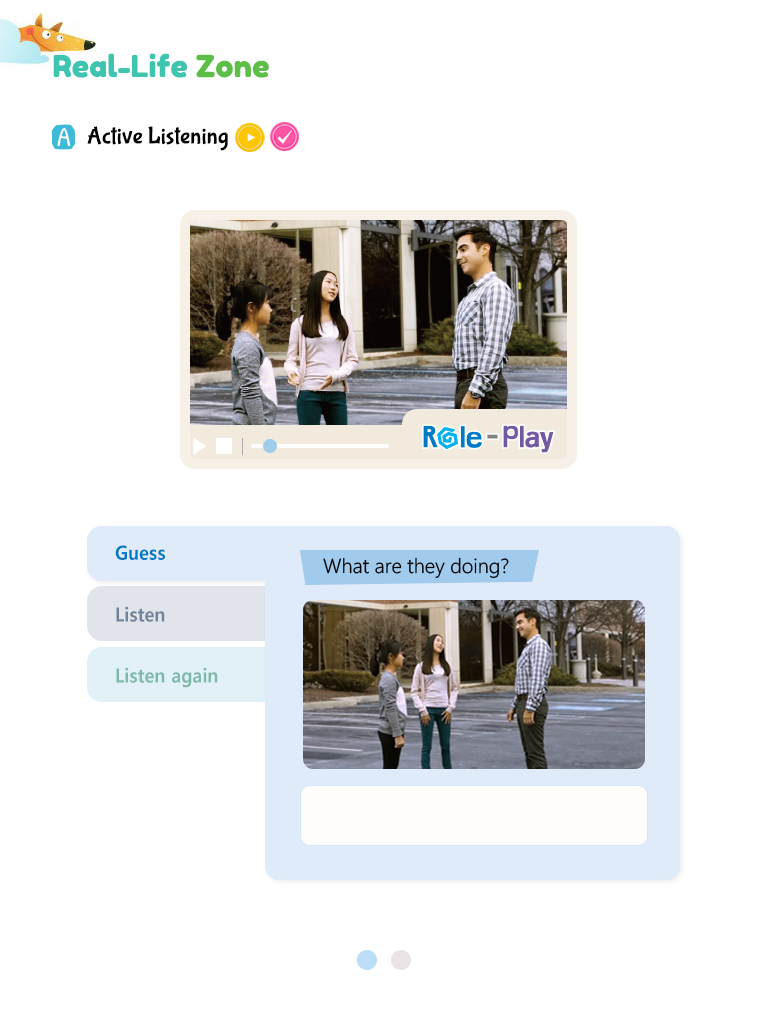
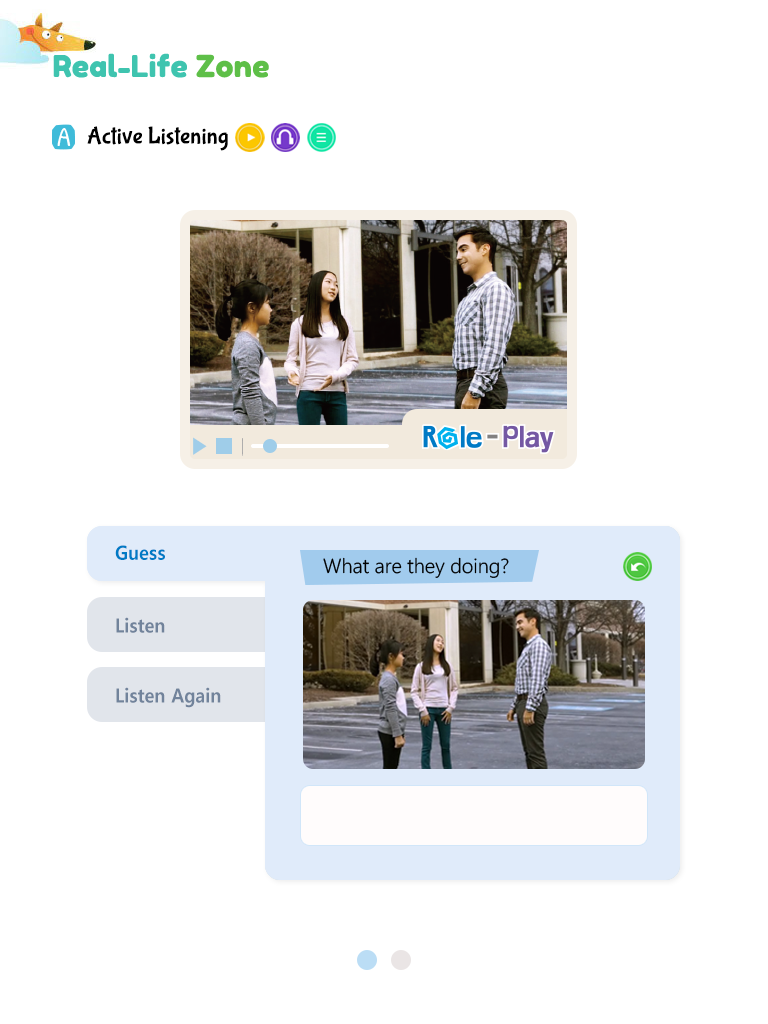
no message

diff --git a/OPS/css/12.css b/OPS/css/12.css
@@ -3,22 +3,63 @@
 
 
 /* layout */
-.wrapper{/*background:url(../images/12/12_5_001.png) no-repeat 0 0;*/ background-size: cover;border:1px solid yellow;}
+.wrapper{/*background:url(../images/12/12_5_001.png) no-repeat 0 0;*/ background-size: cover;}
+.slider_area{height: 770px;margin: 0 auto;position: relative; width: 600px;}
+.slider_area > .slider_content{width:600px;position: relative;top:0;left:0;}
+.slider_image_wrap{width:600px;position: relative;top:0;left:0;z-index:100;}
+.slider_image > li{display:none;width:100%;position:absolute;left:0;top:0;}
+.slider_image > li:nth-of-type(2){display:none;width:100%;position:absolute;left:600px;top:0;}
+.slider_image > li.on{display:block;left:0;}
 
-
+.slider_thumbnail_area { height: 850px; left: 50%; margin-left:-100px; overflow: hidden; position: relative; top:0; width: 200px;}
+.slider_thumbnail_area ul {text-align: center;width:74px; position: relative; top:800px;left:50%;margin-left:-37px;}
+.slider_thumbnail_area ul li {width: 20px; height: 20px; border: 1px solid #ddd; border-radius: 15px; background: url(../images/common/slide_bt_off.png) no-repeat 0 0; text-indent: -9999px; margin: 0 5px;cursor: pointer;display: inline-block;}
+.slider_area .slider_thumbnail_area ul li.on { background: url(../images/common/slide_bt_on.png) no-repeat 0 0; border: 1px solid #fff;}
+.slider_thumbnail_area ul li:last-child { margin-right: 10px;}
 
 .page_tit{width: 235px; height: 70px;margin-top:-45px;margin-left:-53px;}
 
 /*  container_wrap  */
 .header_wrap{position: relative; width: 660px;}
 .sub_tit1{margin-top:41px;}
-.sub_tit1 img{width: 25px; height: 26px;}
+.sub_tit1 img{width: 25px; height: 26px;margin-top: -5px;}
 .A_tit{font-family: 'Bubblegum Sans'; font-size: 22px;}
 .one{width:115px; height:25px;}
 
 /* container_wrap */
-.container_wrap{border:1px solid red;margin-top:50px;}
+.container_wrap{margin-top:50px;height:672px;}
 .container_inner{}
-.content_1{border:1px solid #000;text-align:center;position:relative;left:50%;width:400px;margin-left:-200px;}
+  /* content_1 */
+.content_1{text-align:center;position:relative;left:50%;width:400px;margin-left:-200px;}
 .content_1 span{position:absolute;right:25px;bottom:15px;cursor: pointer;}
-.content_2{border:1px solid #a6d8e5;}
+
+  /* content_2 */
+.content_2{height:357px;width:595px;margin:0 auto;margin-top:50px;}
+.content_2 dl{position:relative;width:595px;height:325px;}
+.content_2 dl dt{background:#e1e5eb;width:200px; height:55px;line-height:55px;color:#71839b;font-family: 'Noto Sans KR';font-weight:800;font-size:17px;padding-left:30px;box-sizing: border-box;border-radius:15px;margin-top:20px;}
+.content_2 dl dt:nth-of-type(1){margin-top:0;}
+
+.content_2 dl dd{position:absolute;left:180px;top:0;width:415px;height:325px;background:#e0ebfa;padding:20px;box-sizing: border-box;border-radius:15px;}
+.content_2 dl dd:nth-of-type(1){text-align: center;display:none;}
+.content_2 dl dd:nth-of-type(2){}
+.content_2 dl dd:nth-of-type(3){}
+
+.content_2 dl dd h1{float:left;margin-left:17px;text-align: center;display:inline-block;background:url(../images/12/inner_title_What_bg.png) no-repeat 0 0;width:239px;height:30px;line-height:30px;font-family: 'Noto Sans KR';font-weight:800;font-size:17px;}
+.content_2 dl dd:nth-of-type(2) h1,
+.content_2 dl dd:nth-of-type(3) h1{background:none;font-family: 'Noto Sans KR';font-weight:100;font-size:13px;text-align:left;margin-top:50px;width: 230px;height: 20px;line-height: 20px;}
+.content_2 dl dd .button_gr{position:absolute;right:35px;}
+
+.content_2 dl dd .video_img{margin-top:40px;}
+.content_2 dl dd textarea{width:338px; height:50px;resize: none;margin-top:18px;border-radius:10px;padding:5px;box-sizing: border-box;line-height:15px;}
+
+.content_2 dl dd div ul{clear: both;display:inline-block;margin-top:30px;}
+.content_2 dl dd div ul li{font-family: 'Faustina';font-size:16px;font-weight:100;line-height:13px;margin:10px 0 0 18px;}
+.content_2 dl dd div ul li span{display:inline-block;width:15px;height:15px;border:1px solid #666;border-radius: 8px;text-align:center;line-height:13px;margin-right:5px;margin-top:2px;}
+
+.content_2 dl dd:nth-of-type(3) div ul{width:305px;height:170px;background:url(../images/12/Talk_bubble.png) no-repeat 0 0;padding:40px 0 0 15px;box-sizing:border-box;}
+.content_2 dl dd:nth-of-type(3) div ul li{font-family: 'Nanum Gothic';font-size:14px;font-weight: bold;margin:15px 0 0 18px;vertical-align: top;}
+.content_2 dl dd:nth-of-type(3) div ul li input[type="checkbox"]{}
+.content_2 dl dd:nth-of-type(3) div ul li input[type="checkbox"]+ label:before{display:inline-block;width:10px;height:10px;margin-left:8px;}
+.content_2 dl dd:nth-of-type(3) div .girl_img{float:right;margin-top:-65px;}
+
+.content_2 dl dd:nth-of-type(3) div ul li input[type="checkbox"]:checked + label:before{text-shadow: 1px 1px 1px rgba(0, 0, 0, font-size: 13px;font-weight: 800;text-align: center; line-height: 10px;}

diff --git a/OPS/css/09.css b/OPS/css/09.css
@@ -35,12 +35,6 @@ article dd ul li{font-size: 12px;}
 article dd ul li:hover{color: #9a01cd;}
 
 li article h1{font-family: 'Bubblegum Sans';font-size:16px;letter-spacing: 1px;position:absolute;top:-10px;left:10px;color:#fff;display:inline-block;padding:0 8px;height:30px;line-height:30px;background: url(../images/09/p09_strapline.png) no-repeat 0 0;background-size: 100% 100%;}
-/*.rol_01 article:first-of-type h1{transform:rotate(-3deg);}
-.rol_01 article:nth-of-type(2) h1{transform:rotate(5deg);}
-.rol_01 article:last-of-type h1{transform:rotate(1deg);}
-.rol_02 article:first-of-type h1{transform:rotate(3deg);}
-.rol_02 article:nth-of-type(2) h1{transform:rotate(-5deg);}
-.rol_02 article:last-of-type h1{transform:rotate(2deg);}*/
 
 li article h2{font-size:13px;font-family: 'Nanum Gothic';font-weight:bold;display:inline-block;margin-bottom:5px;margin-top:25px;}
 .a_check{background:url(../images/09/a_check_bt.png) no-repeat 0 0;}
